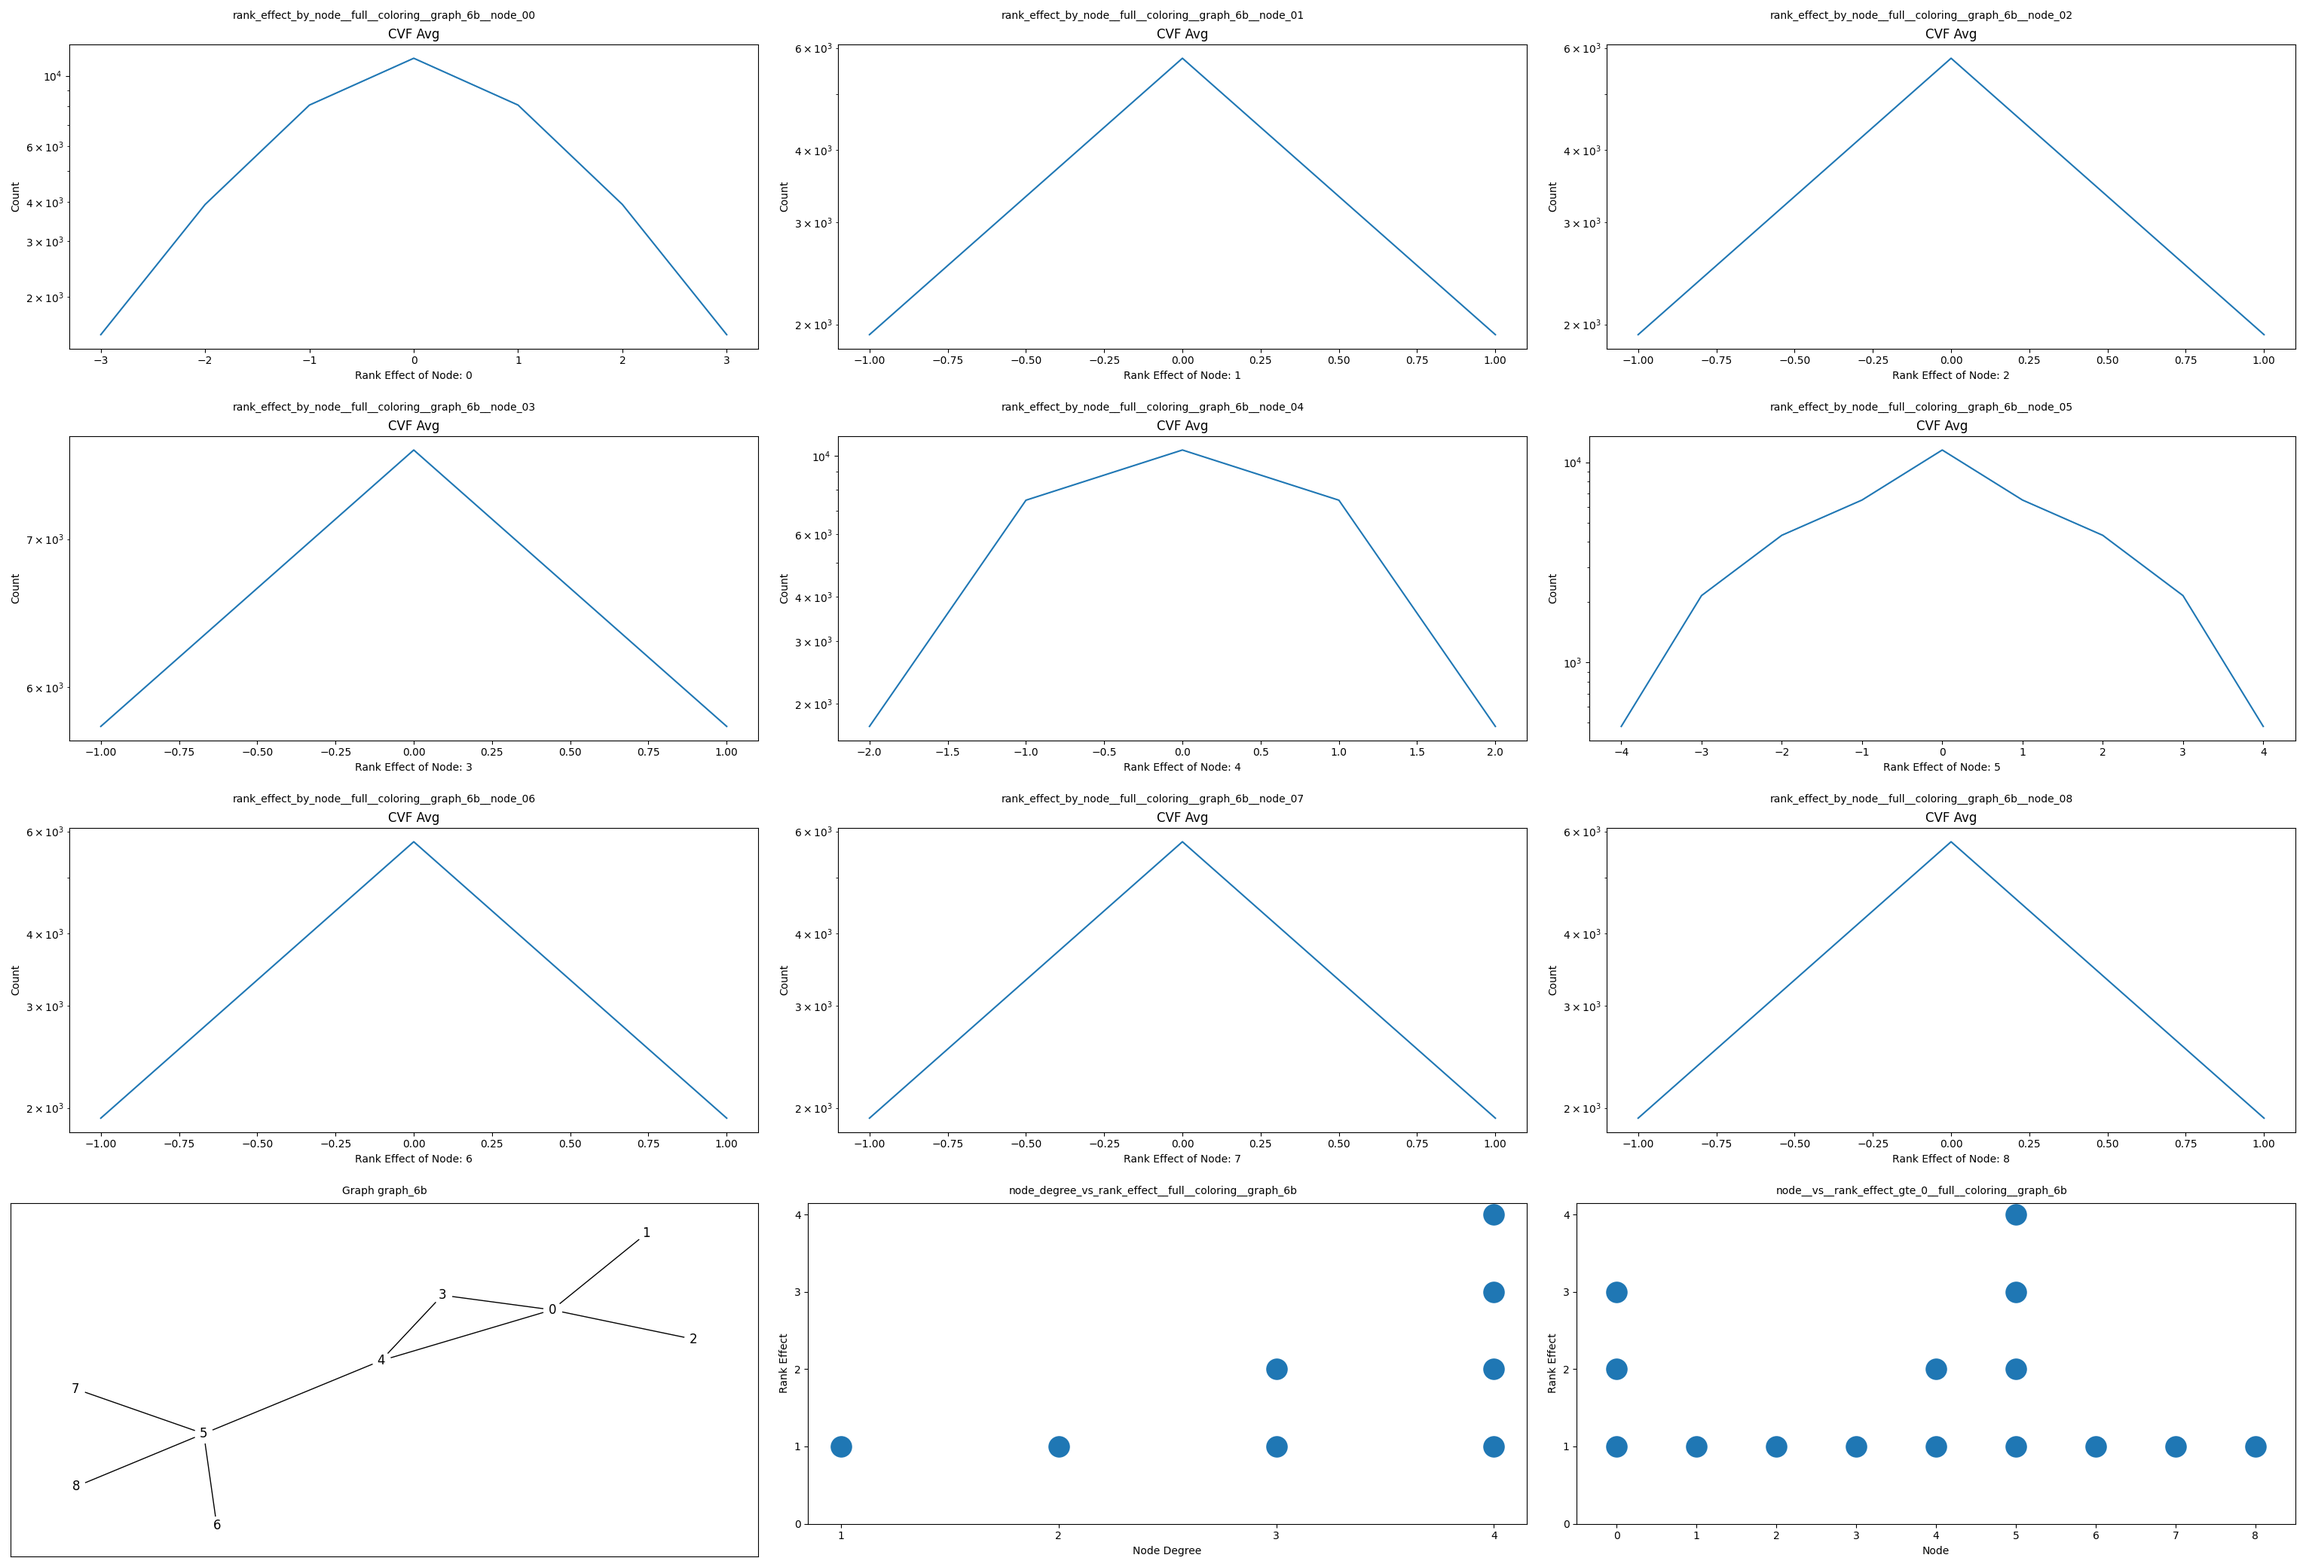
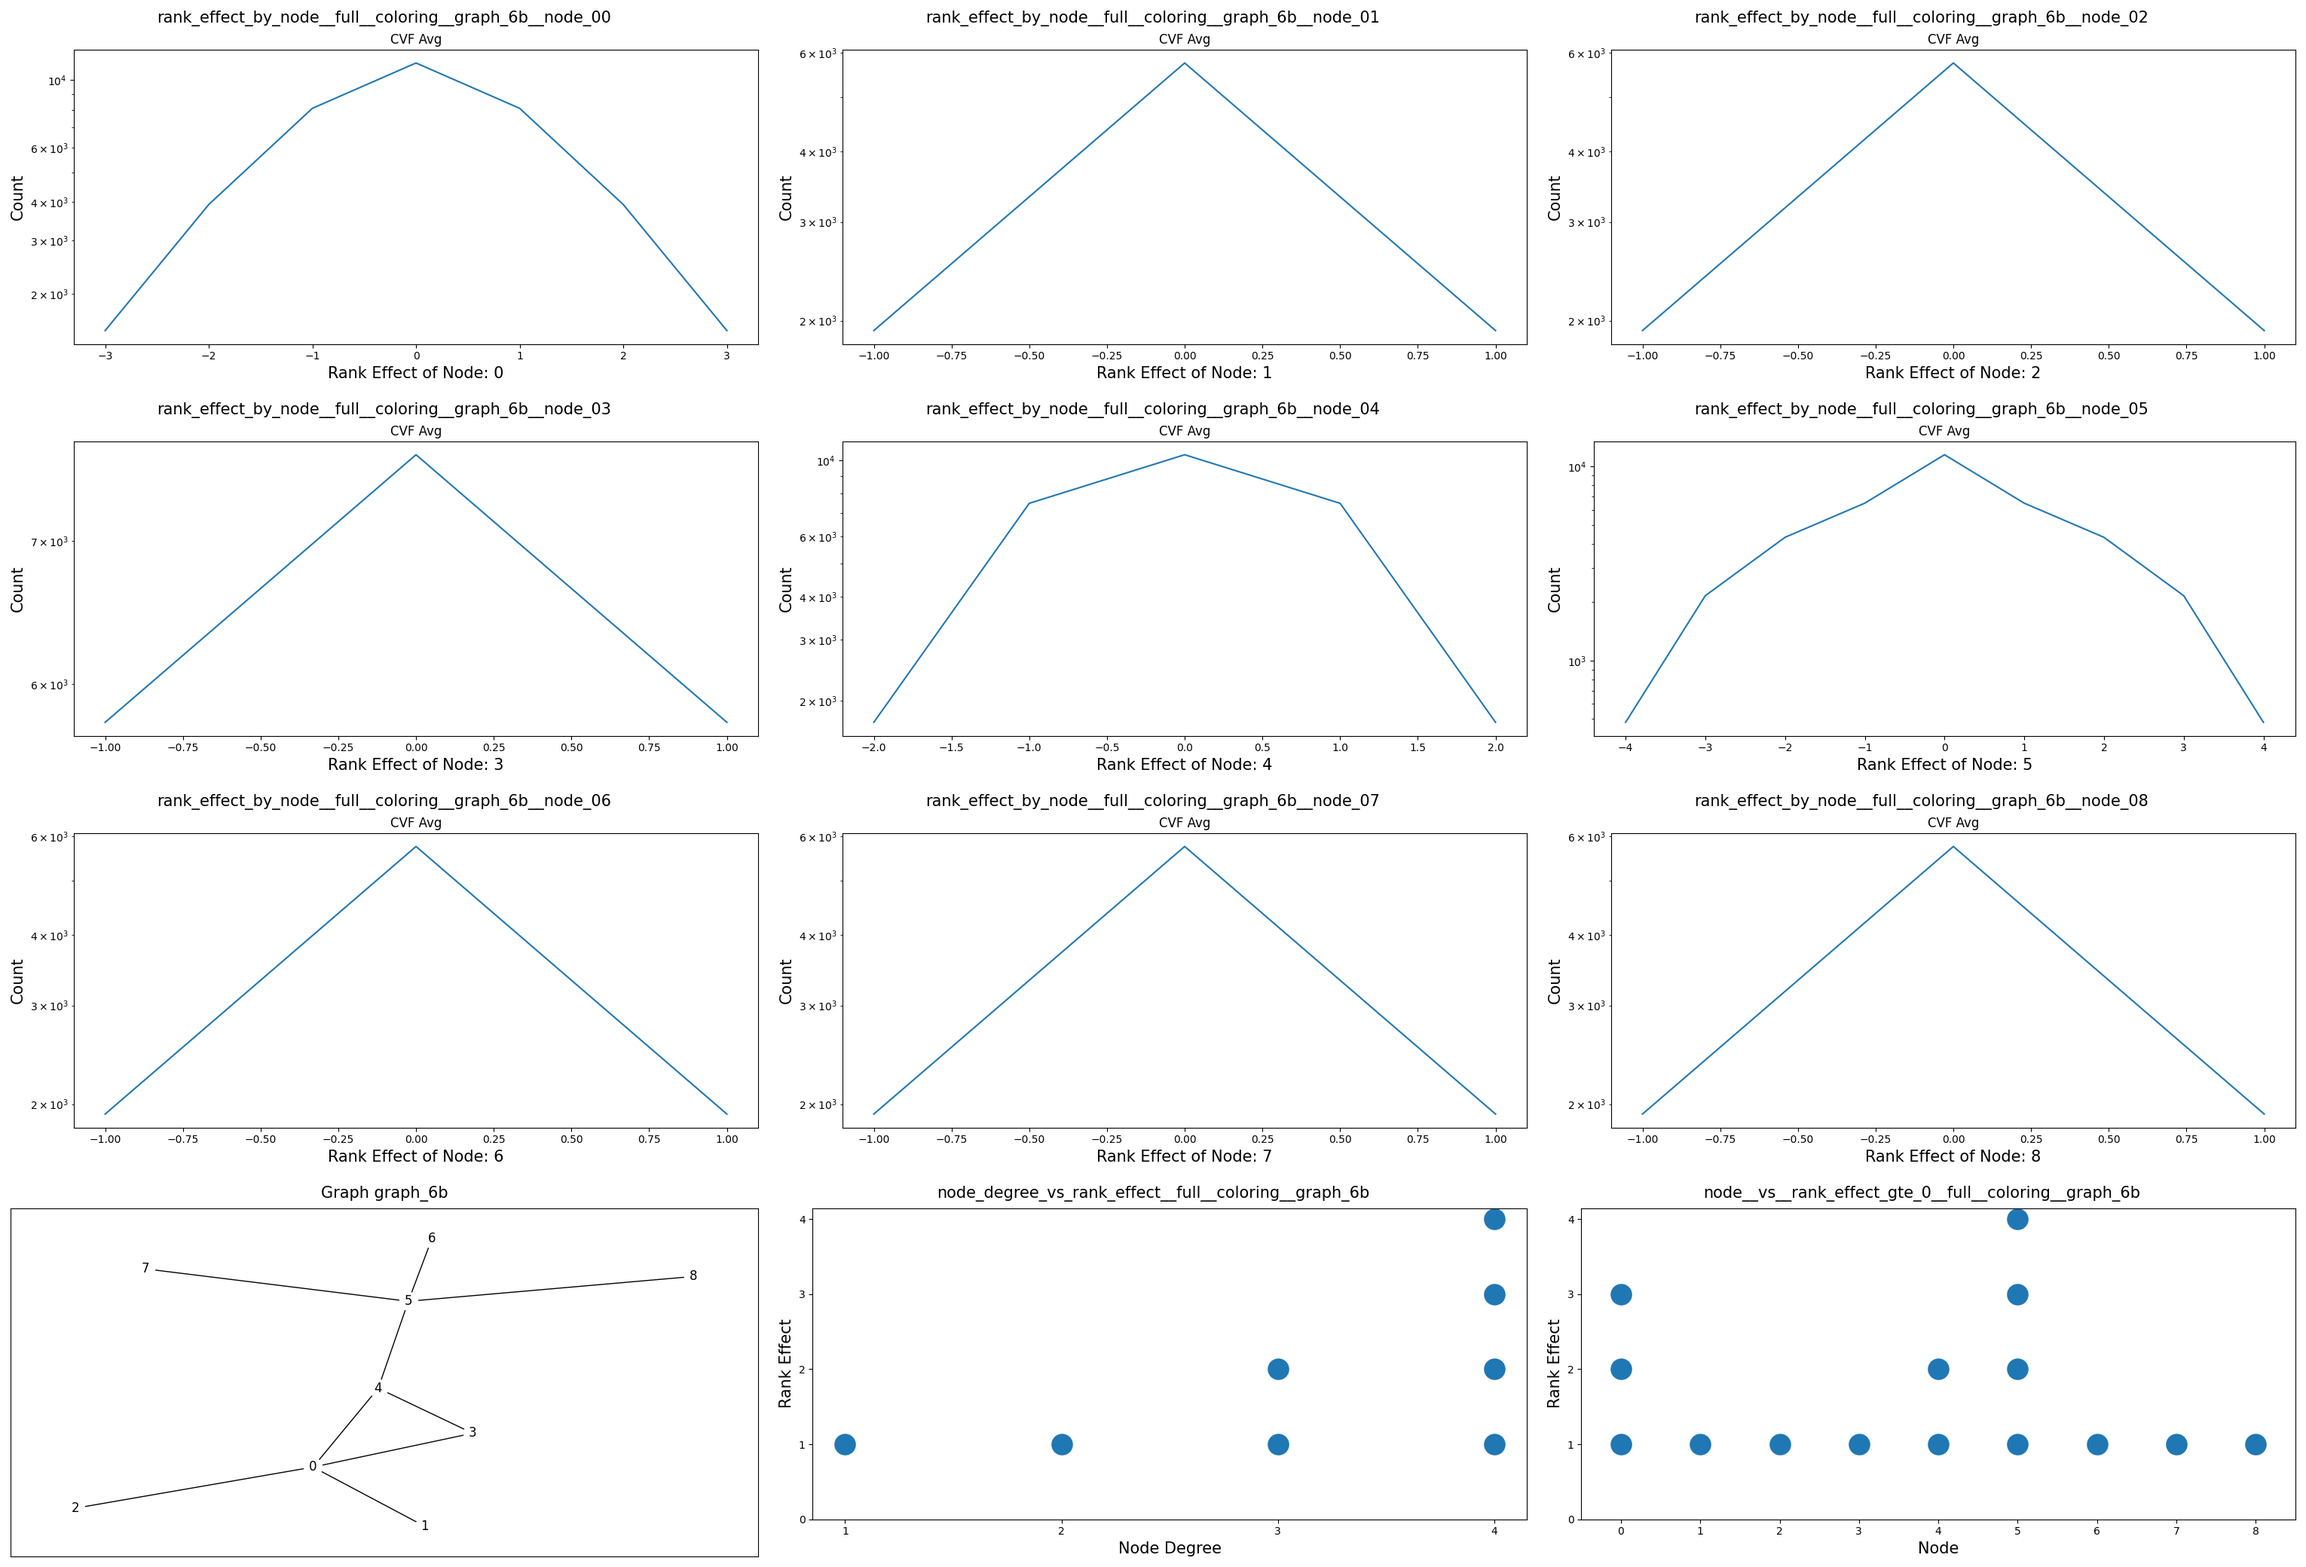
updates

diff --git a/cvf-analysis/analysis/plot_node_vs_cvf_effect_w_coff.py b/cvf-analysis/analysis/plot_node_vs_cvf_effect_w_coff.py
@@ -35,6 +35,8 @@ def plot_node_vs_rank_effect(df, ax, node_id_max, c_off):
     rank_effect_max = df["Rank Effect"].max()
     ax.set_xlim(left=-0.5, right=node_id_max + 0.5)
     ax.set_xticks([i for i in range(0, node_id_max + 1)])
+    ax.xaxis.label.set_size(15)
+    ax.yaxis.label.set_size(15)
     if program == "coloring" or program == "maximal_matching":
         ax.set_yticks([i for i in range(c_off, rank_effect_max + 1)])
 
@@ -42,17 +44,17 @@ def plot_node_vs_rank_effect(df, ax, node_id_max, c_off):
 if __name__ == "__main__":
     results_dir = os.path.join(os.pardir, "results")
     graphs_dir = os.path.join(os.pardir, "graphs")
-    program = "maximal_matching"  # coloring, dijkstra_token_ring, maximal_matching, maximal_independent_set
+    program = "dijkstra_token_ring"  # coloring, dijkstra_token_ring, maximal_matching, maximal_independent_set
     analysis_type = "full"  # full, partial
-    # cut_off = [0, 0, 0, 0, 0, 0]
-    # graph_names = [
-    #     "graph_1",
-    #     "graph_2",
-    #     "graph_3",
-    #     "graph_6",
-    #     "graph_6b",
-    #     "graph_7",
-    # ]
+    cut_off = [0, 0, 0, 0, 0, 0]
+    graph_names = [
+        "graph_1",
+        "graph_2",
+        "graph_3",
+        "graph_6",
+        "graph_6b",
+        "graph_7",
+    ]
     cut_off = [20, 10, 15, 10, 10]
     graph_names = [
         "graph_1",
@@ -61,13 +63,13 @@ if __name__ == "__main__":
         "graph_6",
         "graph_6b",
     ]
-    # cut_off = [40, 40, 50, 60]
-    # graph_names = [
-    #     "implicit_graph_n10",
-    #     "implicit_graph_n11",
-    #     "implicit_graph_n12",
-    #     "implicit_graph_n13",
-    # ]
+    cut_off = [40, 40, 50, 60]
+    graph_names = [
+        "implicit_graph_n10",
+        "implicit_graph_n11",
+        "implicit_graph_n12",
+        "implicit_graph_n13",
+    ]
     plots_dir = os.path.join("plots", program, "node_vs_cvf_effect")
 
     create_plots_dir_if_not_exists()
@@ -84,7 +86,7 @@ if __name__ == "__main__":
         df = pd.DataFrame(data, columns=["Node", "Rank Effect"])
         fig, ax = plt.subplots(1, figsize=(10, 5), constrained_layout=True)
         fig_title = f"node__vs__rank_effect_gte_{cut_off[indx]}__{analysis_type}__{program}__{graph_name}"
-        fig.suptitle(fig_title, fontsize=10)
+        fig.suptitle(fig_title, fontsize=15)
         plot_node_vs_rank_effect(df, ax, node_id_max, cut_off[indx])
 
         fig.savefig(

diff --git a/cvf-analysis/analysis/plot_node_vs_accumulated_cvf_effect_w_coff.py b/cvf-analysis/analysis/plot_node_vs_accumulated_cvf_effect_w_coff.py
@@ -30,12 +30,14 @@ def create_plots_dir_if_not_exists():
 def plot_node_vs_accumulated_cvf_effect(df, ax, y_max):
     sns.barplot(data=df, x="Node", y="Accumulated Severe CVF Effect (Avg)", ax=ax)
     ax.set_ylim(bottom=0, top=math.ceil(y_max * 1.1))
+    ax.xaxis.label.set_size(15)
+    ax.yaxis.label.set_size(15)
 
 
 if __name__ == "__main__":
     results_dir = os.path.join(os.pardir, "results")
     graphs_dir = os.path.join(os.pardir, "graphs")
-    program = "maximal_matching"  # coloring, dijkstra_token_ring, maximal_matching, maximal_independent_set
+    program = "dijkstra_token_ring"  # coloring, dijkstra_token_ring, maximal_matching, maximal_independent_set
     analysis_type = "full"  # full, partial
     # cut_off = [40, 40, 50, 60]
     cut_off = [20, 10, 15, 10, 10]
@@ -46,13 +48,13 @@ if __name__ == "__main__":
         "graph_6",
         "graph_6b",
     ]
-    # cut_off = [40, 40, 50, 60]
-    # graph_names = [
-    #     "implicit_graph_n10",
-    #     "implicit_graph_n11",
-    #     "implicit_graph_n12",
-    #     "implicit_graph_n13",
-    # ]
+    cut_off = [40, 40, 50, 60]
+    graph_names = [
+        "implicit_graph_n10",
+        "implicit_graph_n11",
+        "implicit_graph_n12",
+        "implicit_graph_n13",
+    ]
     plots_dir = os.path.join("plots", program, "node_vs_accumulated_cvf_effect")
 
     create_plots_dir_if_not_exists()
@@ -86,7 +88,7 @@ if __name__ == "__main__":
 
             file_name_substr = f"{c_off}" if len(str(c_off)) > 1 else f"0{c_off}"
             fig_title = f"node__vs__accumulated_severe_cvf_effect_gte_{file_name_substr}__{analysis_type}__{program}__{graph_name}"
-            fig.suptitle(fig_title, fontsize=10)
+            fig.suptitle(fig_title, fontsize=15)
             plot_node_vs_accumulated_cvf_effect(
                 node_vs_accumulated_cvf_effect,
                 ax,

diff --git a/cvf-analysis/analysis/plot_node_vs_max_cvf_effect.py b/cvf-analysis/analysis/plot_node_vs_max_cvf_effect.py
@@ -29,12 +29,14 @@ def create_plots_dir_if_not_exists():
 def plot_node_vs_max_rank_effect(df, ax, y_max):
     sns.barplot(data=df, x="Node", y="Rank Effect", ax=ax)
     ax.set_ylim(bottom=0, top=math.ceil(y_max * 1.1))
+    ax.xaxis.label.set_size(15)
+    ax.yaxis.label.set_size(15)
 
 
 if __name__ == "__main__":
     results_dir = os.path.join(os.pardir, "results")
     graphs_dir = os.path.join(os.pardir, "graphs")
-    program = "dijkstra_token_ring"  # coloring, dijkstra_token_ring, maximal_matching, maximal_independent_set
+    program = "maximal_matching"  # coloring, dijkstra_token_ring, maximal_matching, maximal_independent_set
     analysis_type = "full"  # full, partial
     graph_names = [
         "graph_1",
@@ -43,12 +45,12 @@ if __name__ == "__main__":
         "graph_6",
         "graph_6b",
     ]
-    graph_names = [
-        "implicit_graph_n10",
-        "implicit_graph_n11",
-        "implicit_graph_n12",
-        "implicit_graph_n13",
-    ]
+    # graph_names = [
+    #     "implicit_graph_n10",
+    #     "implicit_graph_n11",
+    #     "implicit_graph_n12",
+    #     "implicit_graph_n13",
+    # ]
     plots_dir = os.path.join("plots", program, "node_vs_max_cvf_effect")
 
     create_plots_dir_if_not_exists()
@@ -65,7 +67,7 @@ if __name__ == "__main__":
         )
         fig, ax = plt.subplots(1, figsize=(10, 5), constrained_layout=True)
         fig_title = f"node_vs_max_rank_effect__{analysis_type}__{program}__{graph_name}"
-        fig.suptitle(fig_title, fontsize=10)
+        fig.suptitle(fig_title, fontsize=15)
         plot_node_vs_max_rank_effect(
             node_vs_max_rank_effect, ax, node_vs_max_rank_effect["Rank Effect"].max()
         )

diff --git a/cvf-analysis/plot_results.py b/cvf-analysis/plot_results.py
@@ -48,6 +48,8 @@ def plot_node_rank_effect(node, df, ax):
     df = df.loc[df["CVF (Avg)"] > 0]
     sns.lineplot(data=df, x="Rank Effect", y="CVF (Avg)", ax=ax)
     ax.set(xlabel=f"Rank Effect of Node: {node}", ylabel="Count")
+    ax.xaxis.label.set_size(15)
+    ax.yaxis.label.set_size(15)
     ax.set_title("CVF Avg")
     if df.shape[0] > 0:
         ax.set_yscale("log")
@@ -107,7 +109,7 @@ for graph_name in graph_names:
         else:
             node_id = f"{node_id}"
         fig_title = f"rank_effect_by_node__{analysis_type}__{program}__{graph_name}__node_{node_id}"
-        fig.suptitle(fig_title, fontsize=10)
+        fig.suptitle(fig_title, fontsize=15)
         plot_node_rank_effect(index[0], grp, axs)
         fig.savefig(
             os.path.join(

diff --git a/cvf-analysis/analysis/plot_node_degree_vs_cvf_effect.py b/cvf-analysis/analysis/plot_node_degree_vs_cvf_effect.py
@@ -47,6 +47,8 @@ def plot_node_degree_vs_rank_effect(df, ax):
     sns.scatterplot(data=df, x="Node Degree", y="Rank Effect", ax=ax, s=500)
     rank_effect_max = df["Rank Effect"].max()
     ax.set_yticks([i for i in range(0, rank_effect_max + 1)])
+    ax.xaxis.label.set_size(15)
+    ax.yaxis.label.set_size(15)
 
 if __name__ == "__main__":
     results_dir = os.path.join(os.pardir, "results")
@@ -79,7 +81,7 @@ if __name__ == "__main__":
         fig_title = (
             f"node_degree_vs_rank_effect__{analysis_type}__{program}__{graph_name}"
         )
-        fig.suptitle(fig_title, fontsize=10)
+        fig.suptitle(fig_title, fontsize=15)
         plot_node_degree_vs_rank_effect(df, ax)
 
         fig.savefig(

diff --git a/cvf-analysis/plot_graphs.py b/cvf-analysis/plot_graphs.py
@@ -25,6 +25,6 @@ for gname in graph_names:
     else:
         nx.draw_networkx(G, node_color="white", ax=fig.add_subplot())
 
-    fig.suptitle(f"Graph {gname}", fontsize=10)
+    fig.suptitle(f"Graph {gname}", fontsize=15)
     fig.savefig(f"graph_images/{gname}.png")
     # plt.show()
